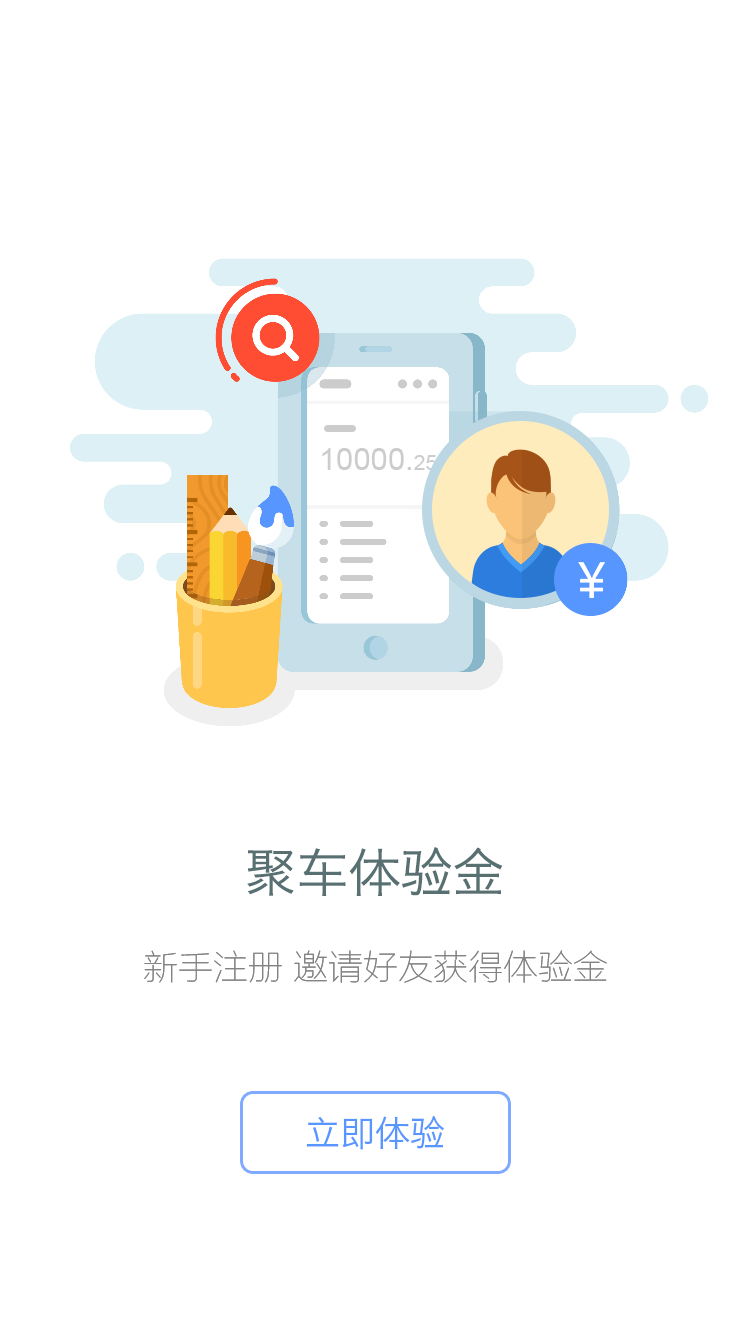
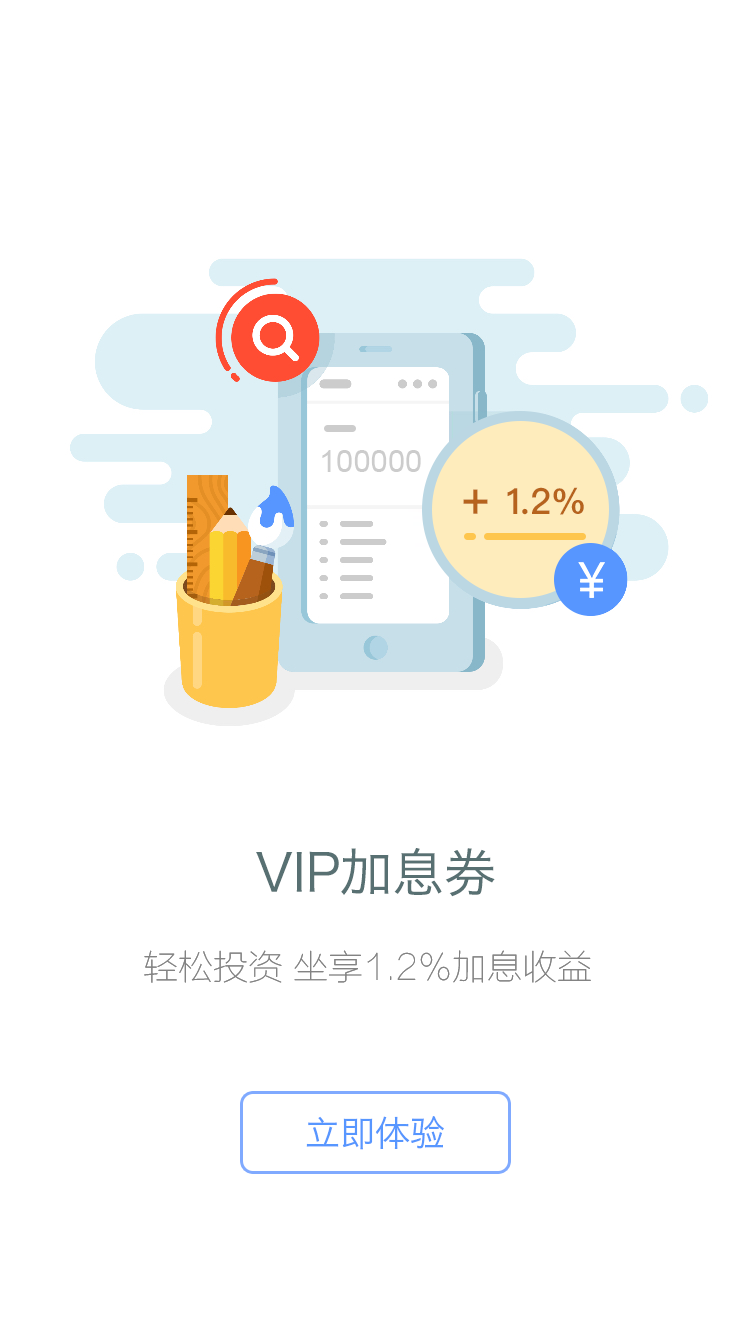
app1.91正式版提交

diff --git a/use_coupon.html b/use_coupon.html
@@ -145,14 +145,18 @@
 		<script id="tpl-item-1-1" type="text/html">
 			{{each rows as $item i}}
 			<li class="hbList">  
-				<div class="hongbao-num" data={"cid":"{{$item.coupon_user_id}}","etime":"{{$item.expire_time | expireTime}}","crate":"{{$item.rate | toFixed2}}","type":"{{$item.type}}"}> 
-					{{if $item.type == 'vip'}}
+				{{if $item.type == 'vip'}}
+				<div class="hongbao-num" data={"cid":"{{$item.coupon_user_id}}","etime":"{{1498838399 | expireTime}}","crate":"{{$item.rate | toFixed2}}","type":"{{$item.type}}"}> 
+				
 					<img src="images/wsy_jxj.png"/> 
 					<div class="hb-je " style="color: #df8800;"><span style="font-size: 50px;">{{$item.rate | toFixed2}}</span>%</div>
 					<h5>还有{{1498838399 | expireTime}}天过期</h5>
 					<p>有效期至{{1498838399 | dateFormat:"yyyy年MM月dd日"}}</p>
 					<div class="vip-tip">VIP</div>
+				</div>
 					{{else}}
+				<div class="hongbao-num" data={"cid":"{{$item.coupon_user_id}}","etime":"{{$item.expire_time | expireTime}}","crate":"{{$item.rate | toFixed2}}","type":"{{$item.type}}"}> 
+				
 					<img src="images/wsy_jxj.png"/> 
 					<div class="hb-je " style="color: #df8800;"><span style="font-size: 50px;">{{$item.rate | toFixed2}}</span>%</div>
 					<h5>还有{{$item.expire_time | expireTime}}天过期</h5>

diff --git a/js/api.js b/js/api.js
@@ -1,19 +1,19 @@
 var utoken, uid;
 //测试地址
-var host = 'http://test.ifcar99.com/'; 
+/*var host = 'http://test.ifcar99.com/'; 
 var apiurl = 'http://test.ifcar99.com/api.php'; 
 var apiurl_new = 'http://apitest.ifcar99.com/';
 var api_upload_url = 'http://test.ifcar99.com/api.php?module=upload';
 var chargeapi_url = 'http://test.ifcar99.com/api/authllcz/llcz_charge_api.php';
-var queryapi_url = 'http://test.ifcar99.com/api/authllcz/llcz_query_api.php';
+var queryapi_url = 'http://test.ifcar99.com/api/authllcz/llcz_query_api.php';*/
 //正式地址 
 
-/*var host = 'https://www.ifcar99.com/'; 
+var host = 'https://www.ifcar99.com/'; 
 var apiurl = 'https://www.ifcar99.com/api.php'; 
 var apiurl_new = 'https://www.ifcar99.com/api_v2';
 var api_upload_url = 'https://www.ifcar99.com/api.php?module=upload';
 var chargeapi_url = 'https://www.ifcar99.com/api/authllcz/llcz_charge_api.php';
-var queryapi_url = 'https://www.ifcar99.com/api/authllcz/llcz_query_api.php'; */
+var queryapi_url = 'https://www.ifcar99.com/api/authllcz/llcz_query_api.php'; 
 
 //var host = 'https://192.168.1.10/';  
 mui.plusReady(function() { 

diff --git a/ljtz.html b/ljtz.html
@@ -364,7 +364,7 @@
 									hasVip = true;
 									vipcoupon_data = {
 										cid:row.coupon_user_id,
-										etime:row.expire_time,
+										etime:1498838399,
 										crate:row.rate,
 										auto_use:row.is_auto_use
 									}
@@ -904,14 +904,11 @@
 						var moneyvalue = $("#money").val();//原为#money：text	
 						var jxNum = $("#jxNum").val()
 						if(!isNaN(moneyvalue)){
-							if(moneyvalue >= 100){ 
-								if(moneyvalue >= 100000){
-									if(vipcoupon_data.auto_use==2)
-									$("#jxj").html(parseInt(jxNum)+1+"个可用加息券");
-								}else if(jxNum!=0){
-									$("#jxj").html(jxNum+"个可用加息券");
-								}
-							}else{ 
+							if(moneyvalue >= 100000&&vipcoupon_data.auto_use==2){
+								$("#jxj").html(parseInt(jxNum)+1+"个可用加息券");
+							}else if(jxNum!=0){
+								$("#jxj").html(jxNum+"个可用加息券");
+							}else{
 								$("#jxj").html("无可用加息券");
 							}
 						}	
